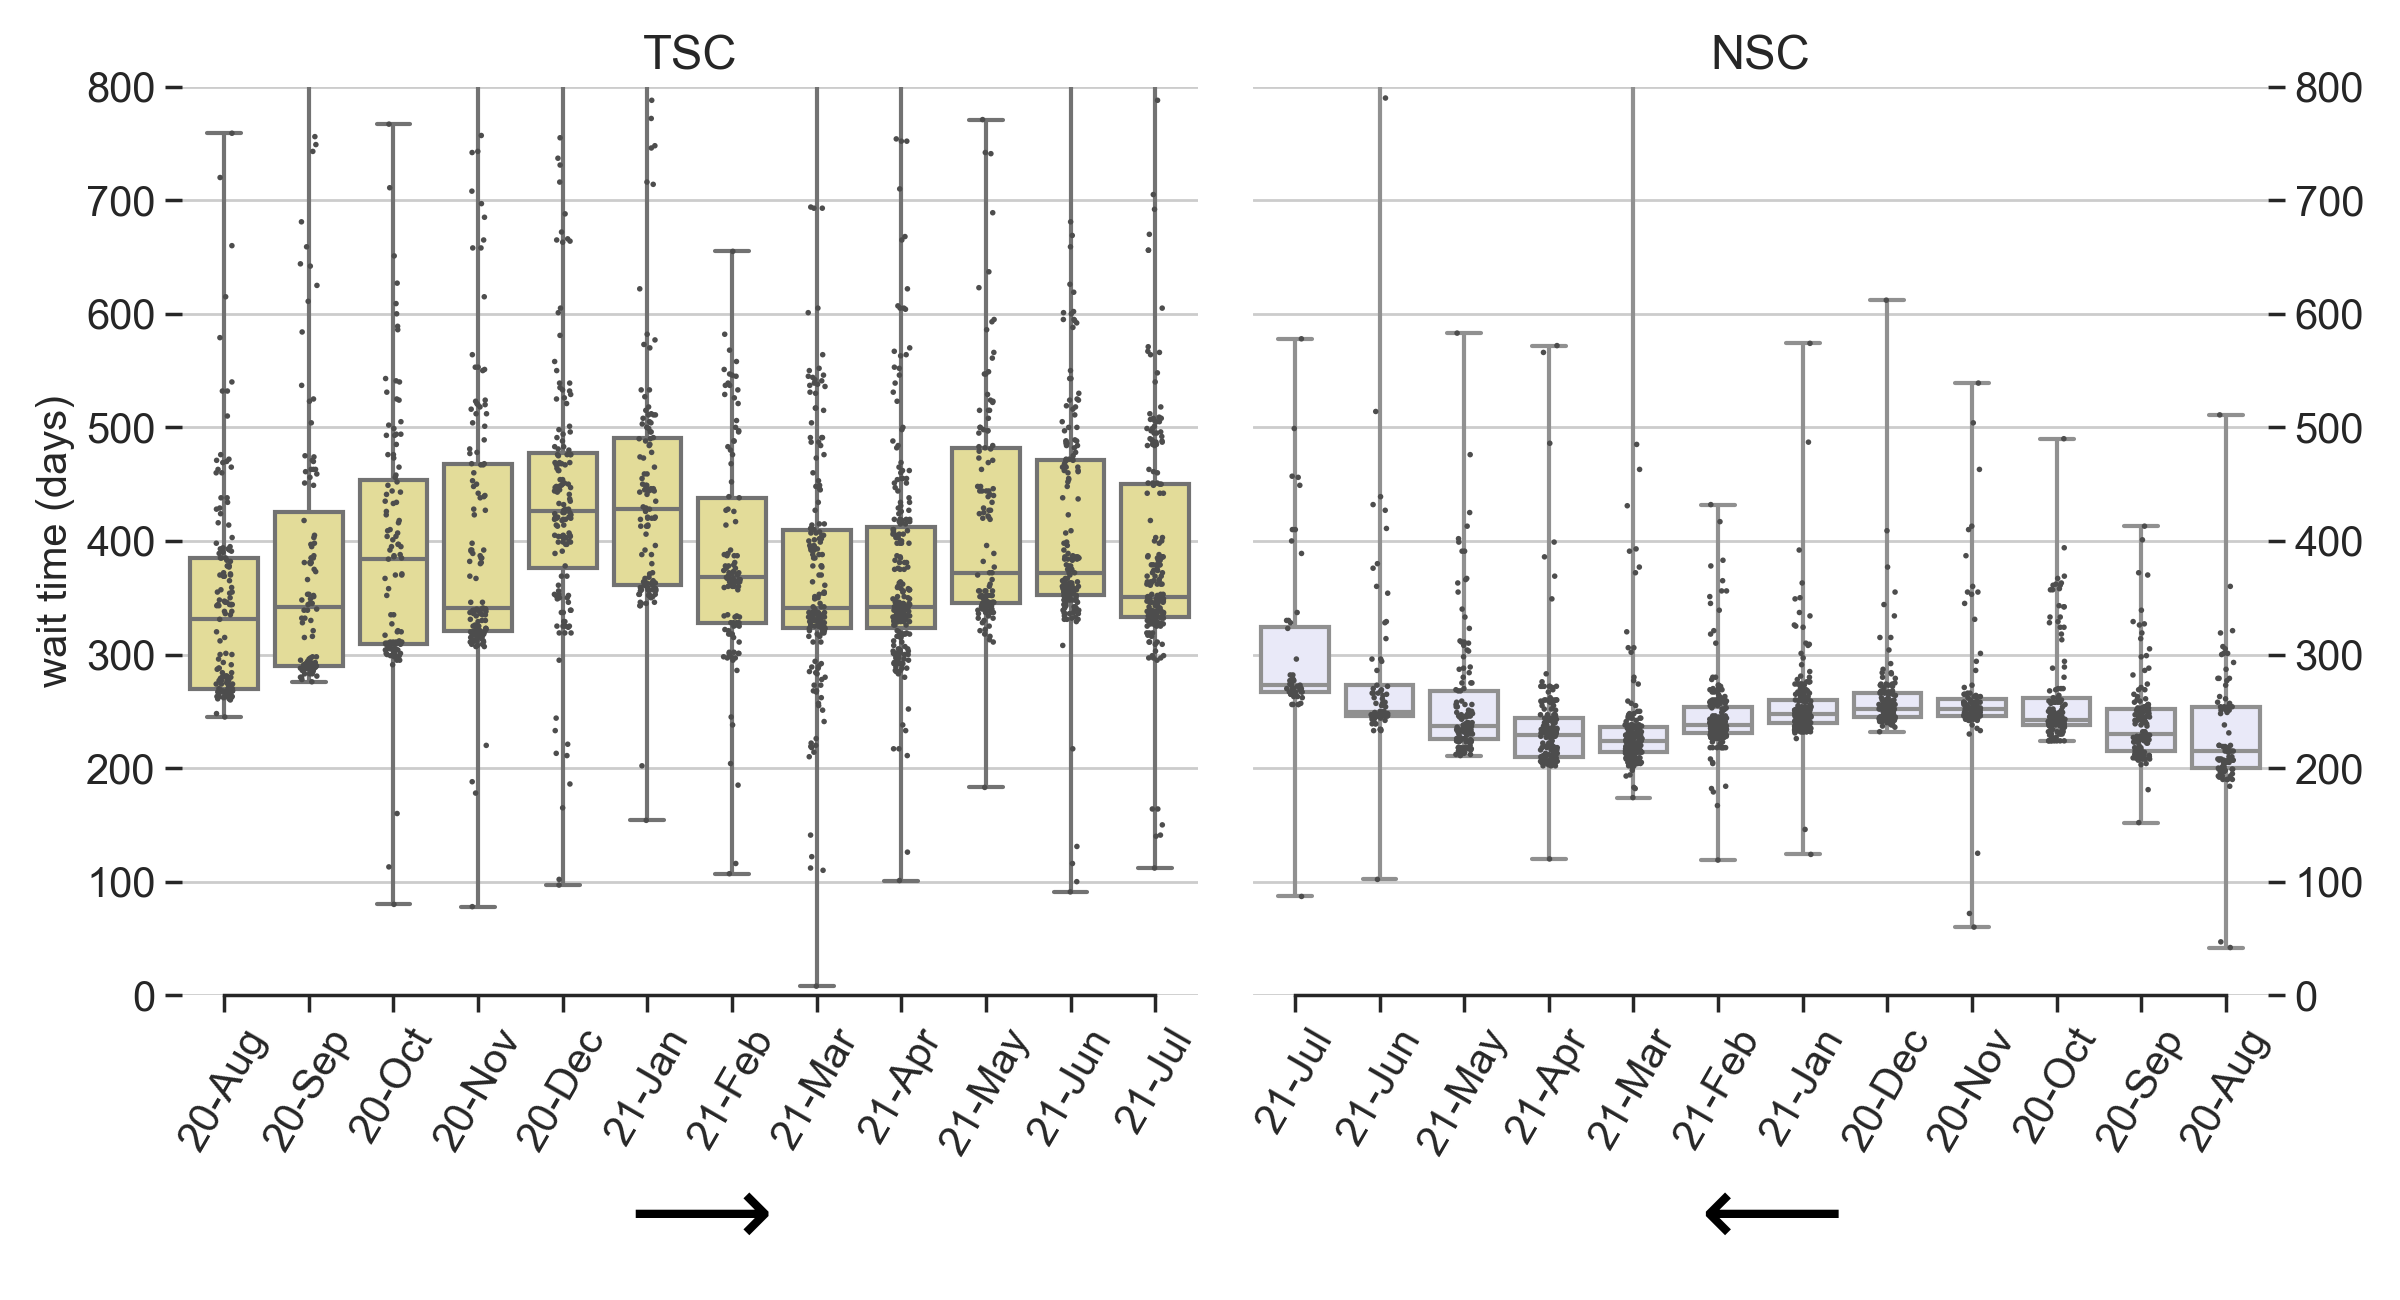
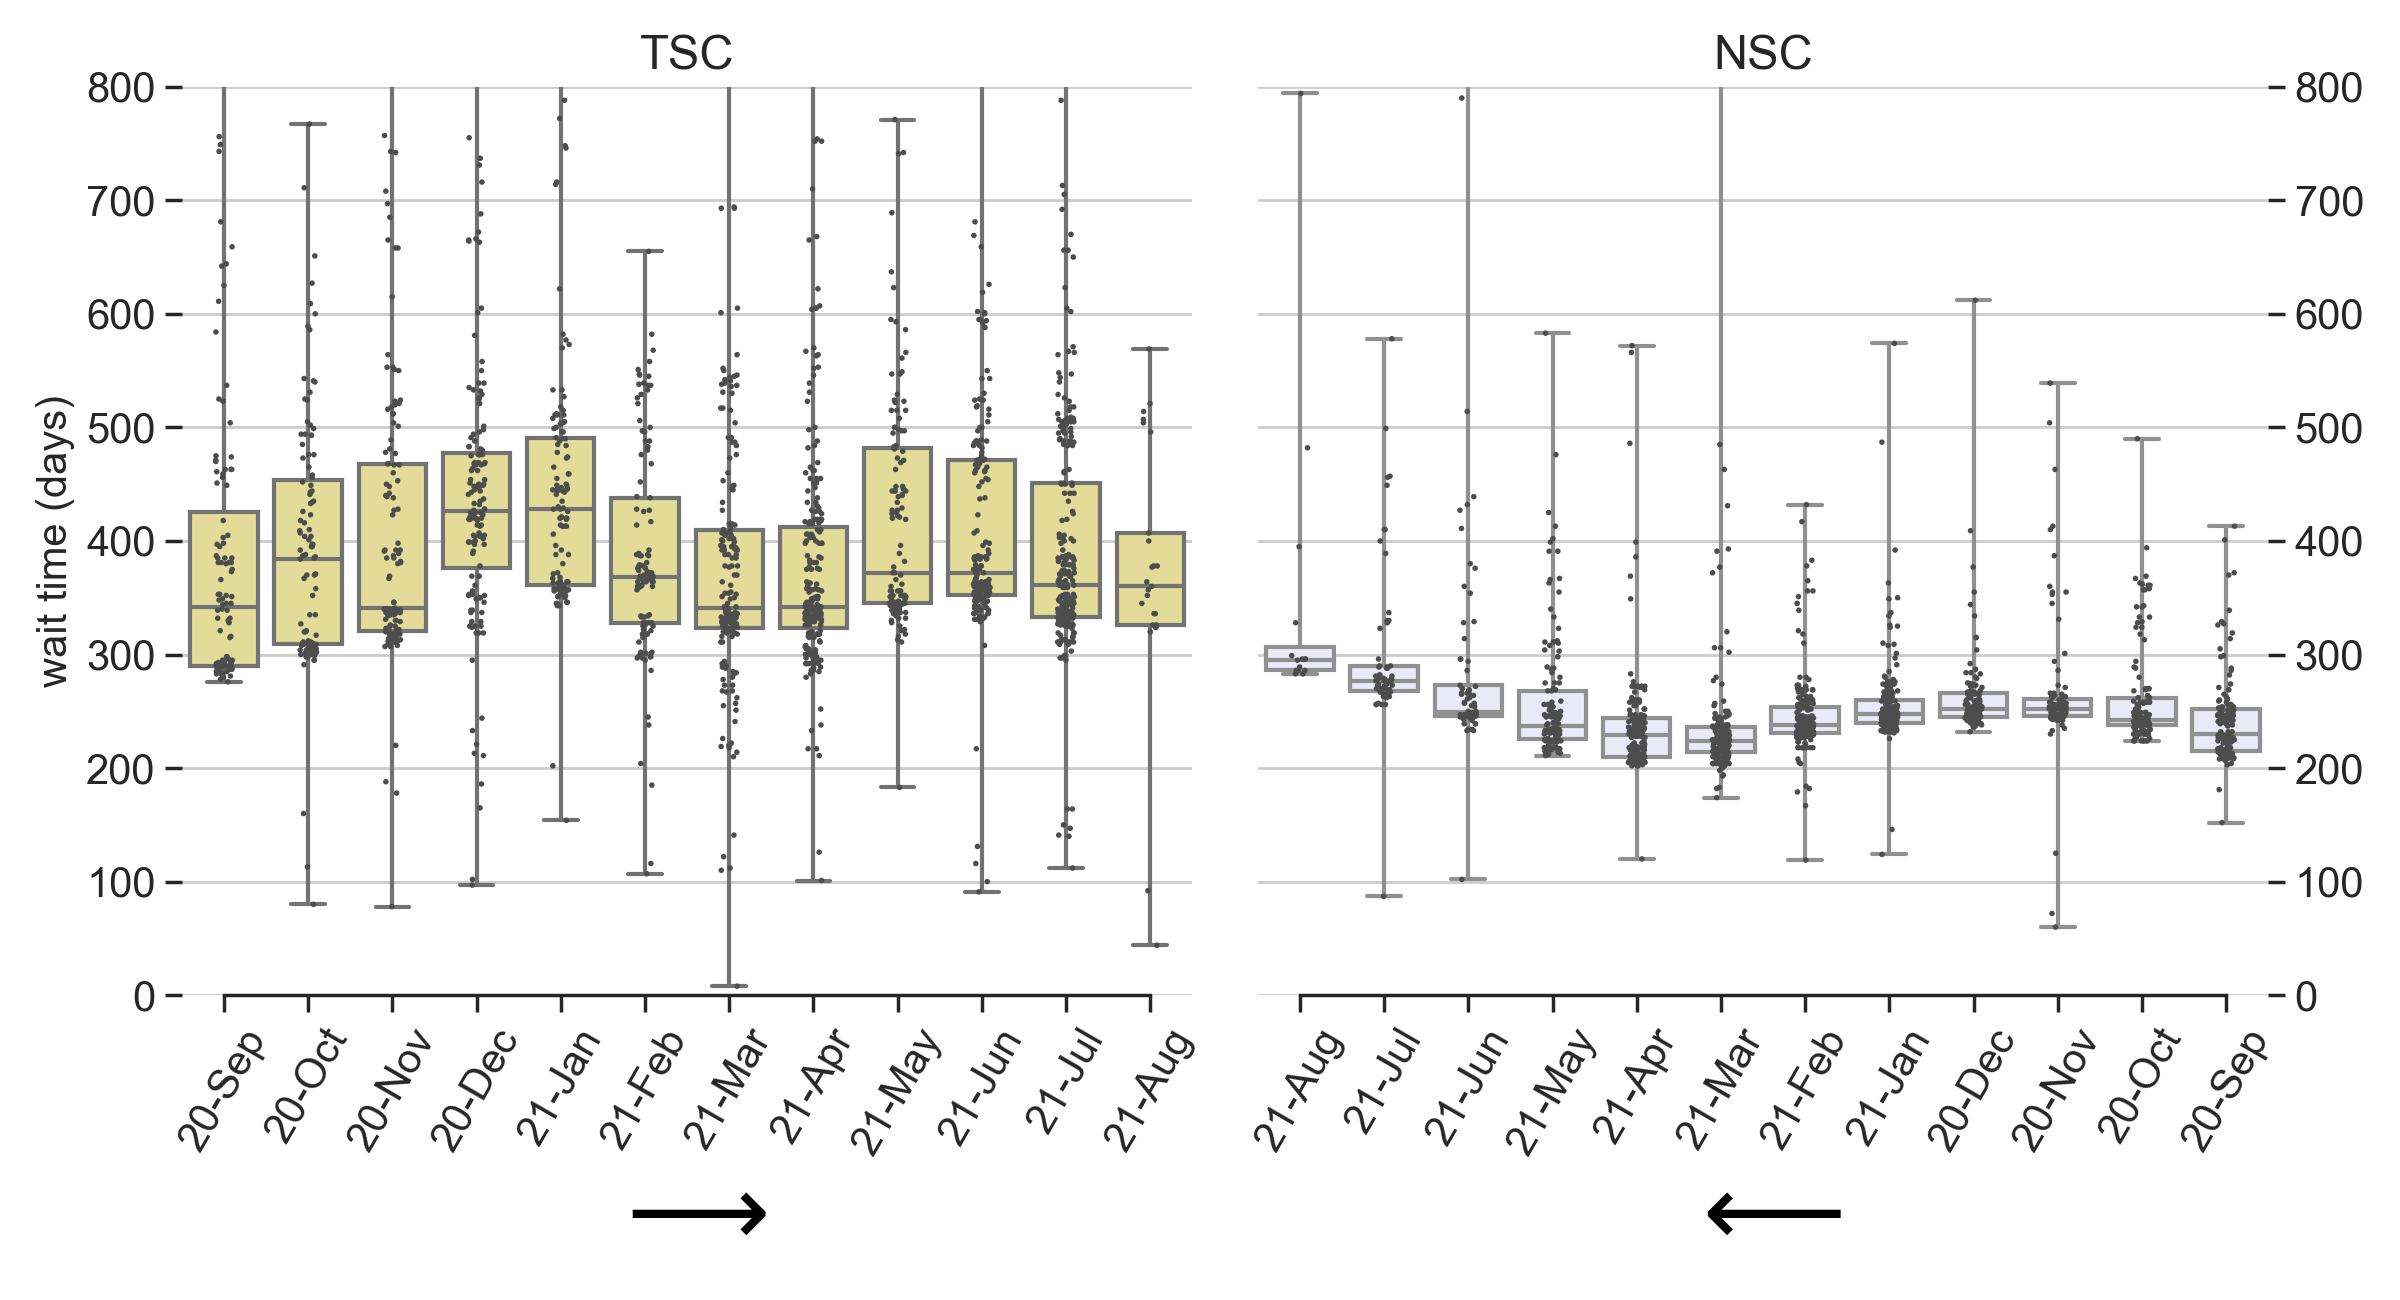
Aug-31 update

diff --git a/README.md b/README.md
@@ -1,4 +1,4 @@
-## National Interest Waiver Wait Time, updated Aug-20-2021 
+## National Interest Waiver Wait Time, updated Aug-31-2021 
 * If you wish to join our Telegram action group to discuss the delays of processing at TSC, please [fill out this form](https://docs.google.com/forms/d/194Vp6uimucdul6iqtNFB1HSKz_z75RKsQ-cp3z7f8YY/viewform?edit_requested=true).
  
 USCIS Employment-based-2 NIW I-140 wait time before approval (data source: [Victoria Chen](https://www.wegreened.com/eb1_niw_approvals)). 
